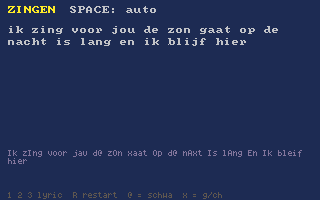
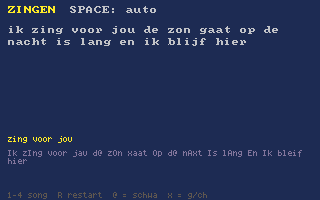
lyric.h: sing Mipomi too; zingen gets 'Fala, Foni', a Mipomi lullaby
LYR_MIPOMI reads the playtime Mipos' language (CV syllables, pure vowels a i o u,
new LV_OP round o). zingen song 4 is an original lullaby from real mipomi-lang
words on a written melody with light vibrato. Selfcheck: 3 Mipomi phrases.

Changed region(s): [[0.0312, 0.96, 0.6875, 1.0], [0.0312, 0.69, 0.1562, 0.72], [0.1875, 0.69, 0.2188, 0.72]]

diff --git a/runtime/lyric.h b/runtime/lyric.h
@@ -1,5 +1,7 @@
 // lyric.h — sung WORDS for INSTR_VOICE: type a lyric, every note sings the next syllable.
 //
+// Languages: LYR_NL (Dutch, by spelling rules) and LYR_MIPOMI (the playtime Mipos' CV language).
+//
 // Two halves:
 //   1. READING: lyr_set(&lyr, LYR_NL, "ik hou van jou") turns text into syllables (onset consonants,
 //      a vowel, coda consonants), by spelling RULES. Dutch first (its spelling is regular enough to read
@@ -54,7 +56,7 @@
 #include <math.h>
 #include <string.h>
 
-enum { LYR_NL = 0 };
+enum { LYR_NL = 0, LYR_MIPOMI = 1 };   // Dutch · Mipomi (the playtime Mipos' language)
 
 // consonant ids: mirror INSTR_VOICE's voice_consonant()/voice_coda() ids (sound.h VC_*, append-only)
 enum { LC_B, LC_D, LC_G, LC_M, LC_N, LC_L, LC_S, LC_SH, LC_NG, LC_R, LC_W, LC_Y, LC_DH, LC_F, LC_V,
@@ -69,9 +71,9 @@ static const unsigned char lyr__cplos[LC_COUNT] = { 1,1,1,0,0,0,0,0, 0,0,0,0,0,0
 
 // vowels
 enum { LV_A, LV_AA, LV_E, LV_EE, LV_I, LV_IE, LV_O, LV_OO, LV_U, LV_UU, LV_OE, LV_EU, LV_SCHWA,
-       LV_EI, LV_UI, LV_AU, LV_COUNT };
+       LV_EI, LV_UI, LV_AU, LV_OP, LV_COUNT };
 static const char *const lyr__vname[LV_COUNT] = { "A", "aa", "E", "ee", "I", "ie", "O", "oo", "U", "uu",
-    "oe", "eu", "@", "ei", "ui", "au" };
+    "oe", "eu", "@", "ei", "ui", "au", "o" };
 // F1, F2 (Hz) of each vowel, then where it GLIDES on release (0 = a pure vowel). ee/oo glide a little,
 // as Dutch long e/o do; ei/ui/au are the real diphthongs.
 static const float lyr__vf[LV_COUNT][4] = {
@@ -91,6 +93,7 @@ static const float lyr__vf[LV_COUNT][4] = {
     { 600, 1750, 350, 2150 },   // ei  ɛi  (mijn)
     { 560, 1550, 330, 1720 },   // ui  œy  (huis)
     { 680, 1100, 400,  850 },   // au  ɑu  (hou)
+    { 450,  850,   0,    0 },   // o   a PURE round o, no glide (Mipomi's o)
 };
 // INSTR_VOICE's own vowel path (U O A E I = note_aux 0 at 0, .25, .5, .75, 1): F1/F2 (sound.h vox_vowel_f)
 static const float lyr__base[5][2] = { {300, 870}, {570, 840}, {730, 1090}, {530, 1840}, {270, 2290} };
@@ -297,6 +300,45 @@ static void lyr__nl_word(Lyric *L, const char *w, int n) {
     }
 }
 
+// ───────────────────────────────── reading Mipomi ─────────────────────────────────
+// Mipomi (~/Projects/love/mipomi-lang/RULES.md): every syllable is ONE consonant + a vowel, 13
+// consonants m b p f k l t j n d s h w, vowels a i o (+ u, "with"). j is the Dutch j, h a breath.
+// So the reading is trivial: each vowel opens a syllable, the consonants before it are its onset.
+// The aspect vowel "melts" by itself: "mi i mola" gives the syllable "i" with no onset after "mi", and a
+// vowel-only syllable on the same vowel is simply that vowel held on the next note ("mii mola").
+static void lyr__mp_word(Lyric *L, const char *w, int n) {
+    signed char on[LYR_MAXC]; int non = 0, first = 1;
+    for (int i = 0; i < n; i++) {
+        int c = w[i], v = -1, id = -1;
+        switch (c) {
+        case 'a': v = LV_AA; break;  case 'i': v = LV_IE; break;  case 'o': v = LV_OP; break;
+        case 'u': v = LV_OE; break;  case 'e': v = LV_EE; break;
+        case 'm': id = LC_M; break;  case 'b': id = LC_B; break;  case 'p': id = LC_P; break;
+        case 'f': id = LC_F; break;  case 'k': id = LC_K; break;  case 'l': id = LC_L; break;
+        case 't': id = LC_T; break;  case 'j': id = LC_Y; break;  case 'n': id = LC_N; break;
+        case 'd': id = LC_D; break;  case 's': id = LC_S; break;  case 'h': id = LC_H; break;
+        case 'w': id = LC_W; break;  case 'g': id = LC_G; break;  case 'r': id = LC_R; break;
+        case 'v': id = LC_V; break;  case 'z': id = LC_Z; break;  case 'y': id = LC_Y; break;
+        default: break;
+        }
+        if (id >= 0) { if (non < LYR_MAXC) on[non++] = (signed char)id; continue; }
+        if (v < 0 || L->n >= LYR_MAXSYL) continue;
+        LyrSyl *S = &L->syl[L->n++];
+        memset(S, 0, sizeof *S);
+        S->word0 = (unsigned char)first; first = 0;
+        S->v = (unsigned char)v;
+        for (int k = 0; k < non; k++) S->on[k] = on[k];
+        S->non = (unsigned char)non;
+        int j = 0, a = i - non;
+        for (int k = a; k <= i && j < (int)sizeof S->txt - 1; k++) S->txt[j++] = w[k];
+        S->txt[j] = 0;
+        non = 0;
+    }
+    if (non && L->n && !first)                            // a stray final consonant (not Mipomi, but): a coda
+        for (int k = 0; k < non && L->syl[L->n - 1].nco < LYR_MAXC; k++)
+            L->syl[L->n - 1].co[L->syl[L->n - 1].nco++] = on[k];
+}
+
 // a melisma: the previous syllable's vowel once more; its coda moves to this last one
 static void lyr__hold(Lyric *L) {
     if (!L->n || L->n >= LYR_MAXSYL) return;
@@ -336,7 +378,7 @@ static void lyr_set(Lyric *L, int lang, const char *text) {
         if (c >= 'a' && c <= 'z') letter = 1;
         if (letter) { if (n < (int)sizeof w - 1) w[n++] = (char)c; continue; }
         if (c == '\'') continue;                           // apostrophes: ignored ("'s", "m'n")
-        if (n) { lyr__nl_word(L, w, n); n = 0; }
+        if (n) { if (lang == LYR_MIPOMI) lyr__mp_word(L, w, n); else lyr__nl_word(L, w, n); n = 0; }
         if (c == '-') {                                    // a lone "-" (not inside a word): a melisma
             int prev_sep = (p == (const unsigned char *)text) || p[-1] == ' ' || p[-1] == '-';
             int next_sep = p[1] == 0 || p[1] == ' ' || p[1] == '-';
@@ -490,15 +532,17 @@ static const char *singer_text(const Singer *s) {
 #ifdef DE_SPEC
 #include <stdio.h>
 #include "spec.h"
-static void lyr__expect_word(const char *text, const char *want) {
+static void lyr__expect_in(int lang, const char *text, const char *want) {
     static Lyric L;
     static char got[256], msg[320];
     L.keep_en = 0;
-    lyr_set(&L, LYR_NL, text);
+    lyr_set(&L, lang, text);
     lyr_phonemes(&L, got, sizeof got);
-    snprintf(msg, sizeof msg, "lyric NL \"%s\" -> \"%s\" (want \"%s\")", text, got, want);
+    snprintf(msg, sizeof msg, "lyric %s \"%s\" -> \"%s\" (want \"%s\")", lang == LYR_MIPOMI ? "MP" : "NL",
+             text, got, want);
     expect(strcmp(got, want) == 0, msg);
 }
+#define lyr__expect_word(t, w) lyr__expect_in(LYR_NL, (t), (w))
 static void lyr_selfcheck(void) {
     lyr__expect_word("ik hou van jou", "Ik hau vAn jau");
     lyr__expect_word("geluk",     "x@.lUk");        // ge- prefix: schwa, stress moves on
@@ -523,6 +567,10 @@ static void lyr_selfcheck(void) {
     lyr__expect_word("kunst",     "kUnst");
     lyr__expect_word("zo - ver",  "zoo.- vEr");     // a melisma holds the vowel
     lyr__expect_word("Café",      "kaa.fee");       // é marks the stress: open stressed e = ee
+    // Mipomi: CV syllables, pure vowels; the aspect vowel is its own onsetless syllable (it melts)
+    lyr__expect_in(LYR_MIPOMI, "mipo, fala a foko", "mie.po faa.laa aa fo.ko");
+    lyr__expect_in(LYR_MIPOMI, "mi i mola, jo?",    "mie ie mo.laa jo");
+    lyr__expect_in(LYR_MIPOMI, "hihi u wawa",       "hie.hie oe waa.waa");
 }
 #endif
 

diff --git a/tools/carts/zingen.c b/tools/carts/zingen.c
@@ -8,24 +8,47 @@
   "teaches": ["generative-melody"],
   "lineage": "The first cart on lyric.h, the sung-words layer for INSTR_VOICE (idea after JIANT FM's VOICE/WORDS, M-VAVE FM-1 firmware, GPL-3.0; ideas only, no code; the Dutch rules are ours). Follows singab, the A/B probe that motivated the de-hiss pass.",
   "description": {
-    "summary": "The formant voice sings DUTCH. Type-free: pick a lyric and it sings it, one syllable per note, reading Dutch spelling by rules (long and short vowels, schwa, ch/g, ui/ij/eu, final devoicing).",
+    "summary": "The formant voice sings DUTCH. Type-free: pick a lyric and it sings it, one syllable per note, reading Dutch spelling by rules (long and short vowels, schwa, ch/g, ui/ij/eu, final devoicing). Song 4 is a lullaby in Mipomi, the playtime Mipos' language.",
     "detail": "lyric.h reads the text into syllables; each note starts the next one: its consonants at note-on, the vowel held while the note is, then the diphthong's second half and the final consonants chained at release ('nacht' = x then t), before the note lets go. The melody is made from the words: a word's last syllable lasts longer, every fourth word breathes. Or play it yourself: every key press sings the next syllable. The bottom line shows the phonemes it read.",
-    "controls": "SPACE = auto-sing on/off · A S D F G H J K = sing the next syllable on that note · 1 2 3 = pick a lyric · R = back to the start"
+    "controls": "SPACE = auto-sing on/off · A S D F G H J K = sing the next syllable on that note · 1 2 3 = Dutch lyrics, 4 = a Mipomi lullaby · R = back to the start"
   }
 }
 de:meta */
 #include "studio.h"
 #include "lyric.h"
 
-// ZINGEN — INSTR_VOICE sings Dutch through lyric.h. The lyrics are our own lines.
+// ZINGEN — INSTR_VOICE sings through lyric.h: three Dutch lyrics (our own lines) on a melody made from
+// the words, and one MIPOMI song (the playtime Mipos' language, real words from mipomi-lang's
+// words.tsv) on its own written lullaby melody.
 #define SLOT 5
-#define STEP_FR 9                        // one step = 9 frames (≈ 16ths at 100 BPM)
 
-static const char *const LYRICS[3] = {
-    "ik zing voor jou, de zon gaat op, de nacht is lang en ik blijf hier",
-    "kunst en liefde, vrolijk en eeuwig, in het licht van de straat",
-    "de zee is groen, de lucht is grijs, ik loop - naar huis door de regen",
+// a written melody: {midi, steps}; midi 0 = a rest. One note per syllable, in order.
+typedef struct { unsigned char midi, len; } MNote;
+// "Fala, Foni" (sun, moon), in Mipomi:
+//   mipo fala, fala a foko            hello sun, the sun goes up
+//   mibi i mola, mibi o jojo u jo     we are happy, we sing with you
+//   fono, foni a foko                 sunset, the moon goes up
+//   mi i nini, mi i momo u jo         I'm very sleepy, I'm in love with you
+//   mipo foni, pomo, ni -             bye moon, thank you, sleep...
+static const MNote FALA_FONI[] = {
+    {67,2},{69,2},{67,2},{64,6},{0,2}, {67,2},{69,2},{72,4},{71,2},{67,6},{0,4},
+    {64,2},{67,2},{69,4},{67,2},{64,6},{0,2}, {64,2},{67,2},{69,4},{72,2},{71,2},{69,2},{67,8},{0,4},
+    {69,2},{65,6},{0,2}, {69,2},{72,2},{74,4},{72,2},{69,6},{0,4},
+    {67,2},{64,4},{62,2},{60,6},{0,2}, {67,2},{69,4},{67,2},{64,2},{62,2},{64,8},{0,4},
+    {67,2},{64,2},{62,2},{60,6},{0,2}, {64,2},{62,4},{0,2}, {64,6},{60,10},{0,12},
 };
+typedef struct { const char *name; int lang; const char *text; const MNote *mel; int nmel; int step_fr; float vib; } Song;
+static const Song SONGS[4] = {
+    { "zing voor jou", LYR_NL, "ik zing voor jou, de zon gaat op, de nacht is lang en ik blijf hier", 0, 0, 9, 0.0f },
+    { "kunst",         LYR_NL, "kunst en liefde, vrolijk en eeuwig, in het licht van de straat", 0, 0, 9, 0.0f },
+    { "de zee",        LYR_NL, "de zee is groen, de lucht is grijs, ik loop - naar huis door de regen", 0, 0, 9, 0.0f },
+    { "fala, foni (mipomi)", LYR_MIPOMI,
+      "mipo fala, fala a foko, mibi i mola, mibi o jojo u jo, fono, foni a foko, "
+      "mi i nini, mi i momo u jo, mipo foni, pomo, ni -",
+      FALA_FONI, (int)(sizeof FALA_FONI / sizeof FALA_FONI[0]), 11, 0.10f },
+};
+#define NSONGS 4
+static int mel_i = 0;
 static const int NOTES[8] = { 60, 62, 64, 67, 69, 72, 74, 76 };   // C pentatonic-ish, two octaves of keys
 static const int CONTOUR[16] = { 2, 3, 4, 3, 2, 1, 2, 4, 5, 4, 3, 2, 1, 0, 1, 2 };
 
@@ -38,10 +61,22 @@ static char phon[512];
 
 static void pick_lyric(int k) {
     which = k;
-    lyr_set(&lyr, LYR_NL, LYRICS[k]);
+    lyr_set(&lyr, SONGS[k].lang, SONGS[k].text);
     lyr_phonemes(&lyr, phon, sizeof phon);
     singer_init(&sing, &lyr, SLOT);
-    fr = note_left = rest_left = syl_i = words = 0;
+    fr = note_left = rest_left = syl_i = words = mel_i = 0;
+}
+
+// a written melody: legato (a note runs into the next; the singer releases the old one as the new one
+// starts), released at a rest
+static void mel_step(const Song *g) {
+    if (note_left > 0 && --note_left > 0) return;
+    if (mel_i >= g->nmel) { mel_i = 0; singer_off(&sing); singer_restart(&sing); }
+    MNote m = g->mel[mel_i++];
+    note_left = m.len;
+    if (!m.midi) { singer_off(&sing); return; }
+    int h = singer_on(&sing, m.midi, 6);
+    if (h > 0 && g->vib > 0.0f) { note_aux(h, 5, g->vib); note_aux(h, 6, 0.45f); }   // a little vibrato
 }
 
 void init(void) {
@@ -73,14 +108,15 @@ static void auto_step(void) {
 
 void update(void) {
     if (keyp(' ')) { autop = !autop; singer_off(&sing); note_left = rest_left = 0; }
-    for (int k = 0; k < 3; k++) if (keyp('1' + k)) pick_lyric(k);
-    if (keyp('R')) { singer_off(&sing); singer_restart(&sing); syl_i = words = 0; }
+    for (int k = 0; k < NSONGS; k++) if (keyp('1' + k)) pick_lyric(k);
+    if (keyp('R')) { singer_off(&sing); singer_restart(&sing); syl_i = words = mel_i = note_left = 0; }
     static const char KEYS[8] = { 'A', 'S', 'D', 'F', 'G', 'H', 'J', 'K' };
     for (int k = 0; k < 8; k++) {
         if (keyp(KEYS[k])) { autop = 0; singer_on(&sing, NOTES[k], 6); keyheld = k; }
         if (keyr(KEYS[k]) && keyheld == k) { singer_off(&sing); keyheld = -1; }
     }
-    if (autop && ++fr >= STEP_FR) { fr = 0; auto_step(); }
+    const Song *g = &SONGS[which];
+    if (autop && ++fr >= g->step_fr) { fr = 0; if (g->mel) mel_step(g); else auto_step(); }
     singer_update(&sing);
 }
 
@@ -114,7 +150,8 @@ void draw(void) {
             if (!*p) break;
         } else if (wn < 63) word[wn++] = *p;
     }
-    print("1 2 3 lyric  R restart  @ = schwa  x = g/ch", 8, SCREEN_H - 8, CLR_DARK_GREY);
+    print(SONGS[which].name, 8, 136, CLR_YELLOW);
+    print("1-4 song  R restart  @ = schwa  x = g/ch", 8, SCREEN_H - 8, CLR_DARK_GREY);
     font(FONT_NORMAL);
 }
 

diff --git a/docs/guides/cart-authoring.md b/docs/guides/cart-authoring.md
@@ -404,7 +404,7 @@ the include, and they never touch engine internals or the tcc symbol table.
 | `mono.h` | **monosynth KEY ASSIGN** — the two questions a one-voice keyboard has to answer, which the engine has no opinion about: **which** held note sounds (`MONO_LAST`/`LOW`/`HIGH`/`FIRST` — Reid's four priority schemes) and whether a press **restarts the envelope** (`MONO_SINGLE` = only onto an empty keyboard, the Minimoog; `MONO_MULTI` = every press, the ARP; `MONO_ANY` = any transition, including a release that hands the voice over). One `Mono` struct owns the held-key stack; `mono_press`/`mono_release` return `MONO_START`/`GLIDE`/`RETRIG`/`STOP` and the cart decides how to voice each | a **monosynth** — `tb303`, `acidrack`, `moog` and `sh101` each hand-rolled one point in Reid's space of "at least 24 keyboard characteristics", so they silently disagreed about the behaviour that most defines how a monosynth answers the fingers. Pure logic: no engine surface, no UI, no sound — which is why it carries its **own** `mono_selfcheck()` (Part 18's four-priority table, run by the including cart's `spec()`). NOT `keybed.h` (the keyboard *widget*) and NOT `solo.h` (the radio scale strip); this is the decision layer between a key press and a note. See [synth-secrets-plan.md](../design/synth-secrets-plan.md) item 2.2 | `sh101` (PRIO/TRIG switches on the panel) |
 | `patgen.h` | **latched PATTERN GENERATOR**, CHOMPI TEMPO's (MIT): latch keys with `pg_add`/`pg_toggle`, call `pg_step()` on each clock edge, get the note or `PG_REST`. Orders `PG_SEQ` (press order) / `UP` / `DOWN` / `PINGPONG` (ends repeat) / `RANDOM`; five 20-step rest masks; `octave_chance` (±12). **A rest takes the STEP, not the NOTE**, so the gap drifts through the line whenever the held count doesn't divide by the mask's plays (4 keys vs `XXX.` = 16 steps round). `PG_DIV_BEATS[]` = TEMPO's synced divisions | an **arpeggiator / latch sequencer** you would otherwise hand-roll. Pure logic, seeded (deterministic), carries `patgen_selfcheck()` for the cart's `spec()` (mutation-tested: it catches an LCG low-bit loop). The cart owns the clock + the sound. See [chompi-harvest.md](../design/chompi-harvest.md) §4 | `latchbox` |
 | `tonnetz.h` | **CHORDS AS PLACES**, from Ornament & Crime's Harrington 1200 / Automatonnetz (MIT, notice kept): a `TzChord` of three VOICED notes; `tz_move(&c, TZ_P/L/R/N/S/H)` returns a bitmask of the voices that moved, so a cart glides only those (each primitive moves exactly one voice by 1-2 semitones); `tz_jump` = least-motion voice-leading to any triad; `TzTri` + `tz_tri_move`/`tz_tri_link` = the same moves as triangles on a lattice (node pc = 7i+4j); `TzGrid` = the 5×5 **vector automaton** (`tz_grid_tick` fires a cell's move when the cursor ENTERS it; vectors are whole cells + 1/2..1/8, exact in 840ths) | **harmony as navigation**: progressions that are smooth by construction, for strangers who don't know keys. Pure logic, deterministic, carries `tonnetz_selfcheck()` (all 24 triads × 6 moves checked against O&C's own offset table; mutation-tested). Not `harmony.h` (style Markov tables / roman numerals): this is voice-leading geometry. See [open-source-audio-toys.md](../design/open-source-audio-toys.md) §2.2 | `tonnetz` |
-| `lyric.h` | **SUNG WORDS** for `INSTR_VOICE`: `lyr_set(&lyr, LYR_NL, "ik hou van jou")` reads text into syllables by spelling rules (Dutch: digraphs, long/short from open/closed syllables, schwa, ch/g = the x consonant, final devoicing, -en n-drop); a `Singer` plays one melody line: `singer_on(&s, midi, vol)` = the next syllable (onset cluster fired in sequence), `singer_off(&s)` = the tail (diphthong glide, chained codas, THEN note_off), `singer_update(&s)` every frame. Vowels are F1/F2 targets placed with the voice's openness/frontness levers, so uu/eu/ui exist | a cart that should **sing words**, not vowels: don't hand-phonemize syllables into `voice_consonant`/`voice_coda` calls (`singab` shows what that costs). Carries `lyr_selfcheck()` (23 Dutch words, run by the including cart's `spec()`). See [sung-lyrics.md](../design/sung-lyrics.md) | `zingen` |
+| `lyric.h` | **SUNG WORDS** for `INSTR_VOICE`: `lyr_set(&lyr, LYR_NL, "ik hou van jou")` reads text into syllables by spelling rules (`LYR_MIPOMI` too: the playtime Mipos' CV language; Dutch: digraphs, long/short from open/closed syllables, schwa, ch/g = the x consonant, final devoicing, -en n-drop); a `Singer` plays one melody line: `singer_on(&s, midi, vol)` = the next syllable (onset cluster fired in sequence), `singer_off(&s)` = the tail (diphthong glide, chained codas, THEN note_off), `singer_update(&s)` every frame. Vowels are F1/F2 targets placed with the voice's openness/frontness levers, so uu/eu/ui exist | a cart that should **sing words**, not vowels: don't hand-phonemize syllables into `voice_consonant`/`voice_coda` calls (`singab` shows what that costs). Carries `lyr_selfcheck()` (23 Dutch words, run by the including cart's `spec()`). See [sung-lyrics.md](../design/sung-lyrics.md) | `zingen` |
 | `drumkit.h` | a shared **playable drum kit** — the engine has no `INSTR_KIT`, so every drum cart hand-builds ~6-16 voices from primitives. This owns the *skeleton*: a role vocab (`DK_KICK`/`DK_SNARE`/`DK_HHC`/`DK_HHO`/`DK_CLAP`/`DK_TOM_LO`/`DK_TOM_HI`/`DK_CRASH`), a fixed slot layout at a caller-chosen base, and `dk_fire(role, midi, vel)` (pitch is a first-class param — pass 0 for the role default; bend later without a refactor). Each kit's `build(base)` callback owns the *sound*, so distinct machines stay distinct (808≠909). `dk_use(&def, base)` reserves **`DK_SLOTS` (9)** slots, not 8 (a layered role, the acoustic snare's wires, takes the 9th); trim with `dk_level(role, x)`, book with `dk_play_at()` if you schedule hits yourself. A kit's optional `fire()` hook plays one stroke as several notes. Built-in `DK_ELECTRO` / `DK_ACOUSTIC` (voiced 2026-11-04 against a real CC0 kit, so it carries that kit's balance) | a cart that needs a **generic drum kit** to play or sample — a kit is a pad **MAP** (N different sounds, one per key at fixed pitch), the opposite of `keybed.h` (which pitches ONE voice), so drums live on the pad row, not the keybed. For a *faithful specific machine* use `tr808.h`/`tr909.h` below instead. **Retrofit candidates** (not yet migrated — share the trigger, keep their sound): `drummachine`/`fingerdrums`, the radio stations, `notebass`/`onenotebass`, `omnichord`, `chordblossom`. ACOUSTIC chokes its open hat with the closed one; ELECTRO has no choke yet. See [mic-and-sampling.md](../design/mic-and-sampling.md) | `sampler` (drum sources) |
 | `acid303.h` | the shared **TB-303 acid voice** (extracted after `tb303`/`acidrack` grew drifting copies): an `Acid` struct + `acid_note`/`acid_ride`/`acid_gate`/`acid_off`/`acid_tie` — a `FILTER_DIODE` held voice with non-retriggering slide, accent filter-env kick, two-decay, soft attack, filter tracking + an octave-down sub-osc. Params floats 0..1 (`ACID_*` enum). `acid_stock()` = vanilla voicing, else Devil Fish wide — both from one header, chosen by data | a cart that wants an **honest 303** — cart owns the PATTERN, header owns the SOUND, so it can't drift. NOT `drumkit.h` (that's the pad MAP; this pitches one voice) | `tb303`, `acidrack`, `acidcandy` (all byte-identical A/B) |
 | `tr808.h` | the shared **TR-808 voice bank** (the `acid303.h` move, for drums): `tr808_build(base)` = the 14-slot bank from the reverse-engineered circuit values (six-oscillator metal bank, bridged-T boom kick, dual-mode snare, 3-retrigger clap) + `tr808_fire(base, role, boost, delay, kt, kd, kc)` = the layered trigger + tune/decay/colour knob maths. `TR_*` 16-voice roster; the cart owns the per-voice knob arrays | a cart that wants a **faithful 808** byte-identical to the `tr808` cart — a full machine at a caller-chosen `base` (clear your other voices), richer than `drumkit.h`'s generic 8-role kit | `tr808`, `acidcandy` |

diff --git a/docs/design/sung-lyrics.md b/docs/design/sung-lyrics.md
@@ -1,8 +1,9 @@
 # Sung lyrics: type words, the voice sings them
 
 STATUS: BUILDING (2026-11-13) — `runtime/lyric.h` reads **Dutch** by spelling rules and sings it on
-`INSTR_VOICE`, one syllable per note; the `zingen` cart is the demo and runs `lyr_selfcheck()`
-(23 Dutch words, `node tools/spec.js zingen`). Other languages: not yet.
+`INSTR_VOICE`, one syllable per note, and **Mipomi** (the playtime Mipos' language); the `zingen`
+cart is the demo (three Dutch lyrics + "Fala, Foni", a Mipomi lullaby on a written melody) and runs
+`lyr_selfcheck()` (23 Dutch words + 3 Mipomi phrases, `node tools/spec.js zingen`).
 
 ## Where it came from
 
@@ -54,6 +55,16 @@ Known misses (no dictionary): words where be-/ge- is a prefix but the last vowel
 (gebed is read as gee.bEt), loanwords (computer), and stress in compounds. Dutch w uses the engine's
 w glide (an English-ish w; Dutch has a labiodental ʋ) and r the approximant (Dutch r varies
 anyway: tap, trill, uvular, the Gooise r).
+
+## Mipomi
+
+`LYR_MIPOMI` reads the Mipos' language (`~/Projects/love/mipomi-lang/RULES.md`, words in `words.tsv`):
+every syllable is one consonant + a vowel (m b p f k l t j n d s h w; a i o, + u "with"), so each vowel
+opens a syllable and the consonants before it are its onset. Vowels are pure (a = Dutch aa, i = ie,
+o = a round o with no glide, u = oe). The grammar's melting aspect vowel ("mi i mola" said "mii mola")
+needs no rule: "i" is an onsetless syllable on the same vowel, which is that vowel held on the next
+note. The paragrammar's lone whispered consonant after a sentence is not sung yet (a syllable needs a
+vowel).
 
 ## Next
 

diff --git a/CLAUDE.md b/CLAUDE.md
@@ -142,7 +142,7 @@ runtime/   studio.h (public API), studio.c (Raylib impl + main()), sound.h (audi
              mono.h      monosynth key assign (note priority + trigger mode) + mono_selfcheck
              patgen.h    latched pattern generator (orders, rest masks, octave chance) + selfcheck; latchbox
              tonnetz.h   chords as places (P/L/R/N/S/H moves, triangle map, automaton) + selfcheck
-             lyric.h     sung words for INSTR_VOICE: Dutch text → syllables, a Singer per melody line + lyr_selfcheck; design/sung-lyrics.md
+             lyric.h     sung words for INSTR_VOICE: Dutch/Mipomi text → syllables, a Singer per melody line + lyr_selfcheck; design/sung-lyrics.md
              solo.h      scale-locked solo strip over a radio (pairs radio.h)
              radio.h     radio-station chrome (chassis, seeded songs, knobs)
              improv.h    melodic auto-solo for the radio stations
